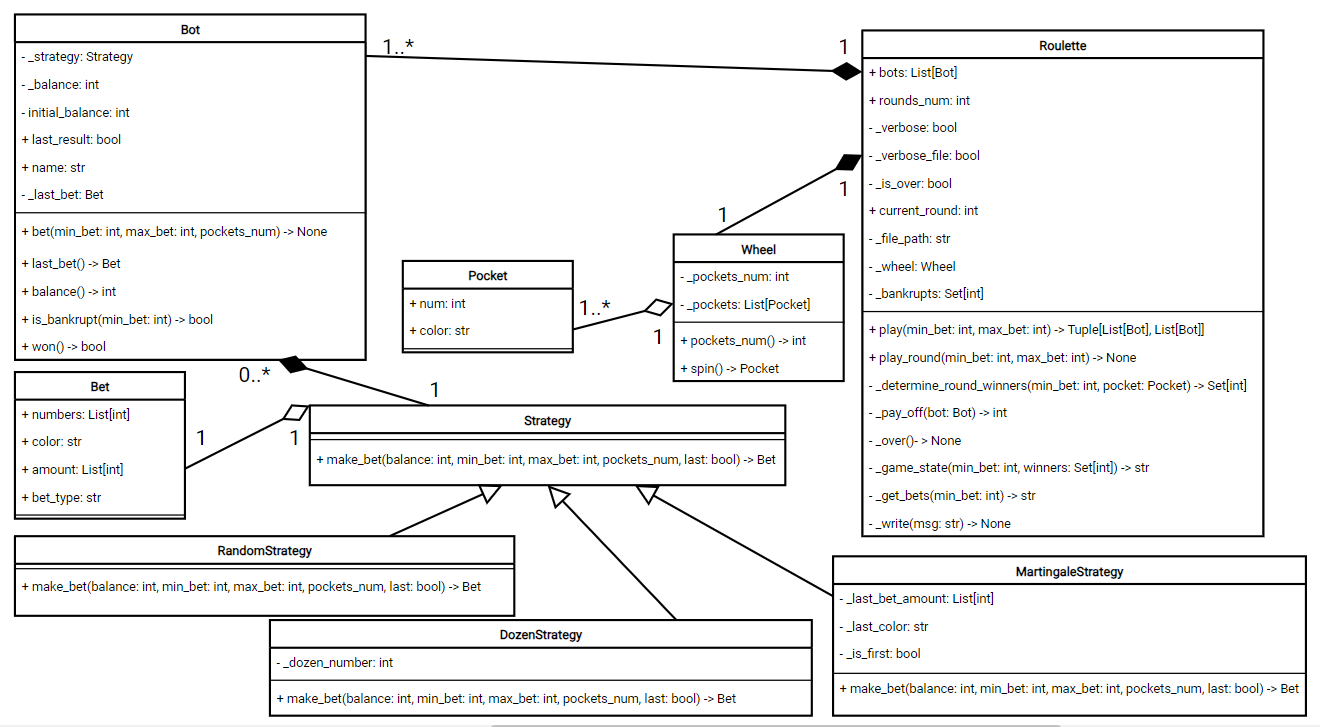
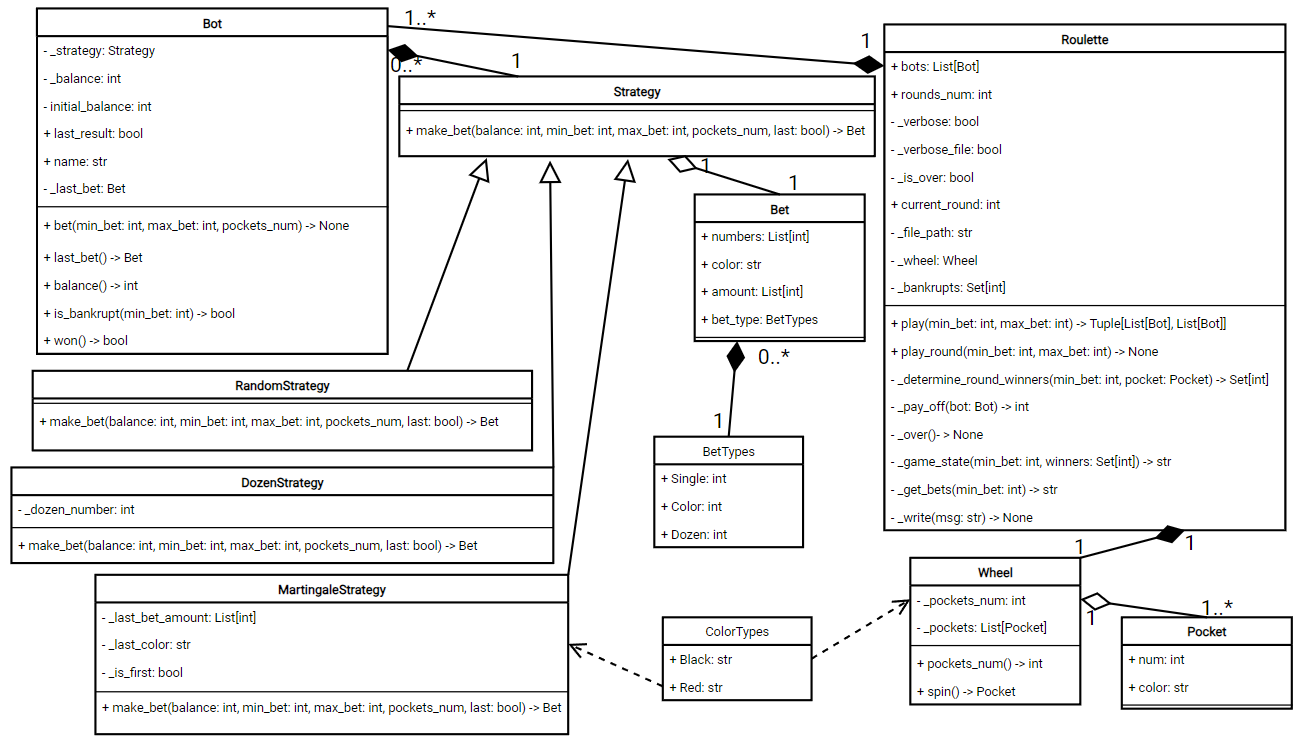
Remove magic constants

Changed region(s): [[0.0, 0.0, 1.0, 1.0]]

diff --git a/project/game/strategy.py b/project/game/strategy.py
@@ -1,8 +1,38 @@
 from abc import ABC, abstractmethod
-from typing import List, Dict
-
+from typing import List
+from enum import Enum
 from dataclasses import dataclass, field
 import random
+
+
+class ColorTypes(Enum):
+    """Possible colors to bet on
+
+    Attibutes
+    ---------
+    Black : str
+    Red : str
+    """
+
+    Black: str = "black"
+    Red: str = "red"
+
+
+class BetTypes(Enum):
+    """Types of bet
+
+    Each bet type is represented by its payout ratio
+
+    Attributes
+    ----------
+    Single : int
+    Color : int
+    Dozen : int
+    """
+
+    Single: int = 36
+    Color: int = 2
+    Dozen: int = 3
 
 
 @dataclass
@@ -17,14 +47,14 @@ class Bet:
         Color of pockets in bet
     amount : List[int]
         Amount of bet
-    bet_type : str
+    bet_type : BetTypes
         Type of bet
     """
 
     numbers: List[int] = field(default_factory=list)
     color: str = ""
     amount: List[int] = field(default_factory=list)
-    bet_type: str = ""
+    bet_type: BetTypes = BetTypes(2)  # some default value
 
 
 class Strategy(ABC):
@@ -102,7 +132,7 @@ class RandomStrategy(Strategy):
 
         bet_numbers = random.sample(range(pockets_num), chips_num)
         bet_amount = [min_bet for _ in range(chips_num)]
-        return Bet(numbers=bet_numbers, amount=bet_amount, bet_type="single")
+        return Bet(numbers=bet_numbers, amount=bet_amount, bet_type=BetTypes.Single)
 
 
 class MartingaleStrategy(Strategy):
@@ -119,7 +149,7 @@ class MartingaleStrategy(Strategy):
         pockets_num: int,
         last: bool = False,
     ) -> Bet:
-        """Make bet on random color according to Martingale startegy
+        """Make bet on random color according to Martingale strategy
 
         If last bet lost then bet on same color with doubled amount
 
@@ -145,12 +175,16 @@ class MartingaleStrategy(Strategy):
         if balance < min_bet:
             return Bet()
 
-        bet_color = random.choice(["red", "black"])
+        bet_color = random.choice(list(ColorTypes))
         if self._is_first or last:
             self._is_first = False
-            self._last_color = bet_color
+            self._last_color = bet_color.value
             self._last_bet_amount = [min_bet]
-            return Bet(color=bet_color, amount=self._last_bet_amount, bet_type="color")
+            return Bet(
+                color=bet_color.value,
+                amount=self._last_bet_amount,
+                bet_type=BetTypes.Color,
+            )
 
         if (
             balance >= self._last_bet_amount[0] * 2
@@ -161,7 +195,9 @@ class MartingaleStrategy(Strategy):
             self._last_bet_amount = [min_bet]
 
         return Bet(
-            color=self._last_color, amount=self._last_bet_amount, bet_type="color"
+            color=self._last_color,
+            amount=self._last_bet_amount,
+            bet_type=BetTypes.Color,
         )
 
 
@@ -210,4 +246,4 @@ class DozenStrategy(Strategy):
         bet_amount = [
             min_bet * min(balance // min_bet, numbers_bet, max_bet // min_bet)
         ]
-        return Bet(numbers=bet_numbers, amount=bet_amount, bet_type="dozen")
+        return Bet(numbers=bet_numbers, amount=bet_amount, bet_type=BetTypes.Dozen)

diff --git a/tests/test_game.py b/tests/test_game.py
@@ -16,9 +16,9 @@ def test_game_wheel():
 @pytest.mark.parametrize(
     "strategy, bet_type",
     [
-        (RandomStrategy(), "single"),
-        (MartingaleStrategy(), "color"),
-        (DozenStrategy(), "dozen"),
+        (RandomStrategy(), 36),
+        (MartingaleStrategy(), 2),
+        (DozenStrategy(), 3),
     ],
 )
 def test_game_strategy(strategy, bet_type):
@@ -26,7 +26,7 @@ def test_game_strategy(strategy, bet_type):
     bot = Bot(strategy, 100)
     bot.bet(1, 100, wheel.pockets_num)
 
-    assert bot.last_bet.bet_type == bet_type
+    assert bot.last_bet.bet_type.value == bet_type
     assert sum(bot.last_bet.amount) <= bot.balance
 
 
@@ -43,11 +43,11 @@ def test_game_bot():
 
 @pytest.fixture
 def roulette():
-    bot1 = Bot(RandomStrategy(), 100)
-    bot2 = Bot(MartingaleStrategy(), 100)
-    bot3 = Bot(DozenStrategy(), 100)
+    bot1 = Bot(RandomStrategy(), 100, "bot1")
+    bot2 = Bot(MartingaleStrategy(), 100, "bot2")
+    bot3 = Bot(DozenStrategy(), 100, "bot3")
     bots = [bot1, bot2, bot3]
-    return Roulette(bots)
+    return Roulette(bots, verbose_file=True)
 
 
 def test_game_roulette(roulette):
@@ -63,6 +63,3 @@ def test_game_play_round(roulette):
     roulette.play_round(1, 100)
 
     assert roulette.current_round == 1
-    # all bots made bet
-    for bot in roulette.bots:
-        assert bot.last_bet.bet_type != "none"

diff --git a/project/game/roulette.py b/project/game/roulette.py
@@ -1,6 +1,6 @@
 from project.game.bot import Bot
 from project.game.wheel import Wheel, Pocket
-from typing import List, Set, Tuple, Dict
+from typing import List, Set, Tuple
 
 
 class Roulette:
@@ -205,10 +205,9 @@ class Roulette:
         ------
         int
         """
-        payout_ratio: Dict[str, int] = {"color": 2, "single": 36, "dozen": 3}
 
         bet = bot.last_bet
-        won = bet.amount[0] * payout_ratio[bet.bet_type]
+        won = bet.amount[0] * bet.bet_type.value
 
         return won
 
@@ -268,7 +267,7 @@ class Roulette:
                 elif len(bet.numbers) != 0:
                     msg += (
                         "".join(map(lambda n: str(n) + " ", bet.numbers))
-                        + f"({bet.bet_type})"
+                        + f"({bet.bet_type.name.lower()})"
                     )
 
         return msg + "\n\n"

diff --git a/project/game/wheel.py b/project/game/wheel.py
@@ -1,3 +1,4 @@
+from project.game.strategy import ColorTypes
 from dataclasses import dataclass
 import random
 
@@ -38,9 +39,9 @@ class Wheel:
         flag = True
         for i in range(1, self._pockets_num):
             if flag:
-                self._pockets.append(Pocket(i, "red"))
+                self._pockets.append(Pocket(i, ColorTypes.Red.value))
             else:
-                self._pockets.append(Pocket(i, "black"))
+                self._pockets.append(Pocket(i, ColorTypes.Black.value))
 
             # color of all pockets alternates
             # except for pairs (10, 11), (18, 19), (28, 29)
